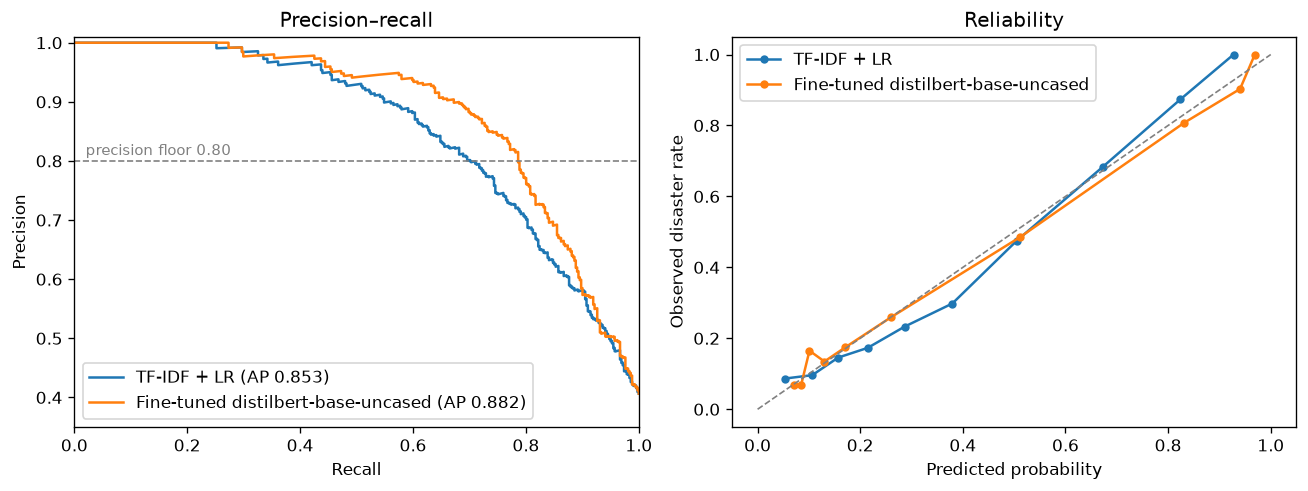
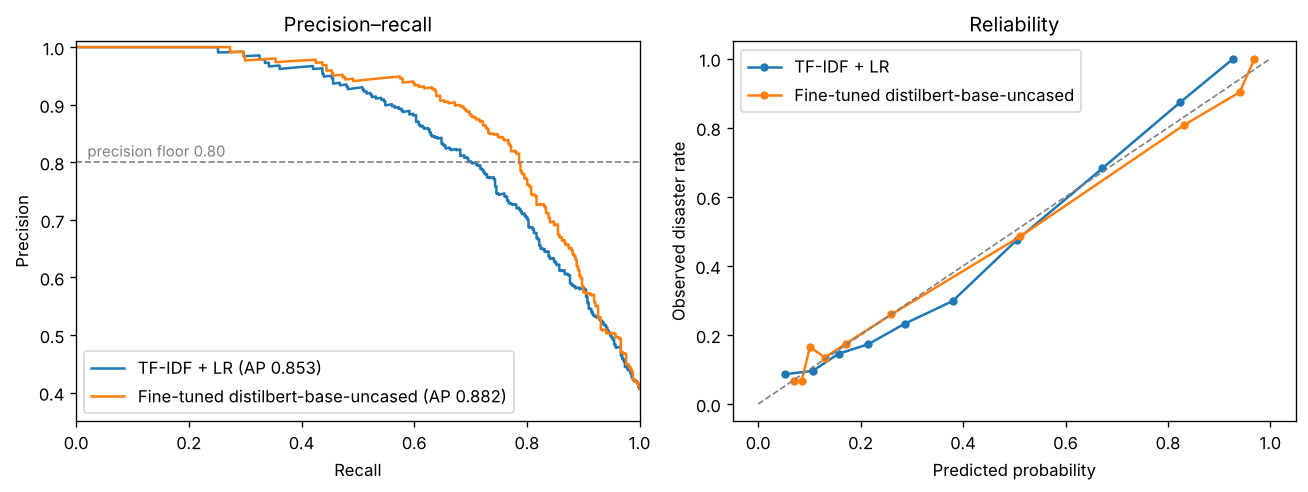
Record Step 2 results and tidy the fine-tune cell
- README: fine-tuned DistilBERT vs TF-IDF with paired differences,
  McNemar, analyst-queue impact, calibration, prevalence table
- Fine-tune cell reports the saved run when it skips training and
  records validation AP by epoch on future runs
- How to run: headless execution and FORCE_RETRAIN

Claude-Session: https://claude.ai/code/session_01ALXoG6ic96ZvtD45HsazUT

diff --git a/README.md b/README.md
@@ -53,27 +53,37 @@ All code is in [`pipeline.ipynb`](pipeline.ipynb). Steps 1–3 are in the notebo
 
 **Results on the held-out test set** (1,036 tweets; thresholds chosen on validation for precision ≥ 0.80; 95% bootstrap intervals):
 
-| Metric | TF-IDF + LR | Fine-tuned DistilBERT |
-| --- | --- | --- |
-| Average precision | 0.853 [0.823, 0.879] | *(pending run)* |
-| ROC-AUC | 0.864 [0.839, 0.886] | |
-| Precision at operating point | 0.786 [0.744, 0.824] | |
-| Recall at operating point | 0.722 [0.678, 0.763] | |
-| F2 | 0.734 [0.697, 0.771] | |
-| F1 | 0.752 [0.718, 0.783] | |
-| Brier score (lower is better) | 0.140 [0.129, 0.152] | |
-| Expected cost per 1,000 tweets | 1,209 [1,025, 1,402] | |
-| Alerts per 1,000 tweets | 374 | |
+| Metric | TF-IDF + LR | Fine-tuned DistilBERT | Difference (paired bootstrap) |
+| --- | --- | --- | --- |
+| Average precision | 0.853 [0.823, 0.879] | **0.882** [0.857, 0.904] | +0.029 [+0.013, +0.044] |
+| ROC-AUC | 0.864 [0.839, 0.886] | **0.888** [0.866, 0.907] | |
+| Recall at operating point | 0.722 [0.678, 0.763] | **0.781** [0.740, 0.818] | +0.059 [+0.026, +0.092] |
+| Precision at operating point | 0.786 [0.744, 0.824] | 0.816 [0.780, 0.851] | +0.031 [−0.006, +0.066] |
+| F2 | 0.734 [0.697, 0.771] | **0.788** [0.752, 0.820] | +0.054 [+0.026, +0.083] |
+| F1 | 0.752 [0.718, 0.783] | **0.799** [0.769, 0.825] | |
+| Brier score (lower is better) | 0.140 [0.129, 0.152] | **0.120** [0.107, 0.134] | |
+| Expected cost per 1,000 tweets | 1,209 [1,025, 1,402] | **959** [805, 1,128] | −250 [−383, −115] |
+| Alerts per 1,000 tweets | 374 | 389 | |
+
+**The improvement is real.** Every difference except precision has an interval that excludes zero. Precision is held near the 0.80 floor by design, so it isn't expected to move much. On the paired predictions, McNemar's exact test gives p = 0.0045: the fine-tuned model alone is right on 85 test tweets, the baseline alone on 51. The +4.7 F1 matches the 4–5 points reported in published work on this data.
+
+**What it means for an analyst queue.** At the same precision floor, per 1,000 tweets at this data's prevalence, the fine-tuned model flags about 318 real disasters against the baseline's 293, and about 71 false alarms against 80. So it catches roughly **24 more real events while sending analysts 9 fewer false alarms**.
+
+**Cost of the improvement.** Training took 154 seconds on my iMac's Apple Silicon GPU. Validation average precision by epoch was 0.885, 0.890 and 0.889, so the notebook kept epoch 2. Inference is milliseconds per tweet, so serving cost is negligible next to an LLM (Step 4).
+
+**Calibration.** The fitted temperature was 1.10, so the fine-tuned model was only slightly overconfident, and its Brier score is better than the baseline's. Both models track the diagonal of the reliability plot (`results/pr_reliability.png`) reasonably well.
+
+**Where the curves meet.** Above about 90% recall the two precision-recall curves converge: the last disasters to be caught are hard for both models. Step 3 looks at why.
 
 **Precision at real-world prevalence** (holding each model's test recall and false-positive rate fixed):
 
 | Prevalence | TF-IDF + LR | Fine-tuned DistilBERT |
 | --- | --- | --- |
-| 10% | 0.373 | |
-| 5% | 0.220 | |
-| 1% | 0.051 | |
+| 10% | 0.373 | 0.419 |
+| 5% | 0.220 | 0.255 |
+| 1% | 0.051 | 0.062 |
 
-*(Comparison and interpretation after the fine-tune run.)*
+At realistic prevalence either model would bury analysts in false alarms if it scored an unfiltered feed. That supports using it as a second stage after keyword and source filtering, and setting thresholds on representative live traffic rather than on this dataset (Step 5).
 
 **A note on the operating point.** The baseline's threshold was chosen on validation to reach precision 0.80, and on test it lands at 0.786, with an interval that still includes 0.80. A threshold tuned on one sample drifts on the next, which is why production needs monitoring and periodic recalibration (Step 5).
 
@@ -103,7 +113,14 @@ pip install -r requirements.txt
 jupyter lab pipeline.ipynb      # then Run > Run All Cells
 ```
 
-The first run downloads the dataset from Hugging Face into `data/`. *(Fine-tuning details to come.)*
+To run it headless and save the outputs into the notebook:
+
+```bash
+jupyter nbconvert --to notebook --execute --inplace --ExecutePreprocessor.timeout=-1 pipeline.ipynb
+```
+
+- The first run downloads the dataset from Hugging Face into `data/`.
+- **Fine-tuning is skipped by default.** The fine-tuned model's validation and test predictions are committed in `results/finetune_predictions.csv`, so the notebook reproduces every number without a GPU. To retrain, set `FORCE_RETRAIN = True` in §3b. It then downloads DistilBERT (about 270 MB) and trains in about 2.5 minutes on an Apple Silicon GPU; it also runs on CUDA or, slowly, on CPU.
 
 ## AI tool use
 
@@ -113,8 +130,10 @@ I used Claude (Anthropic) as a research assistant and pair programmer. Running l
 - **Data inspection.** Through the Hugging Face connector, Claude found that the dataset is a single zip and confirmed it matches Kaggle's files.
 - **§0–§1 code.** Claude drafted the loading, normalization, deduplication and grouped-split cells.
 - **§2 code and Step 1 text.** Claude drafted the evaluation harness and the Step 1 write-up from the choices below.
+- **§3 code and Step 2 text.** Claude drafted the baseline, fine-tuning and comparison cells, testing all but the fine-tune in its own environment. I ran the full notebook on my iMac, which produced every number above, and Claude drafted the Step 2 write-up from those results.
 - **My decisions:**
   - Resolve conflicting labels by majority vote and drop exact ties.
   - Operating point: recall at precision ≥ 0.80, chosen on validation.
   - Cost ratio: a missed disaster = 10 false alarms.
   - Report precision at 1%, 5% and 10% prevalence rather than assume one rate.
+  - Fine-tune on my iMac's GPU rather than in Colab.
